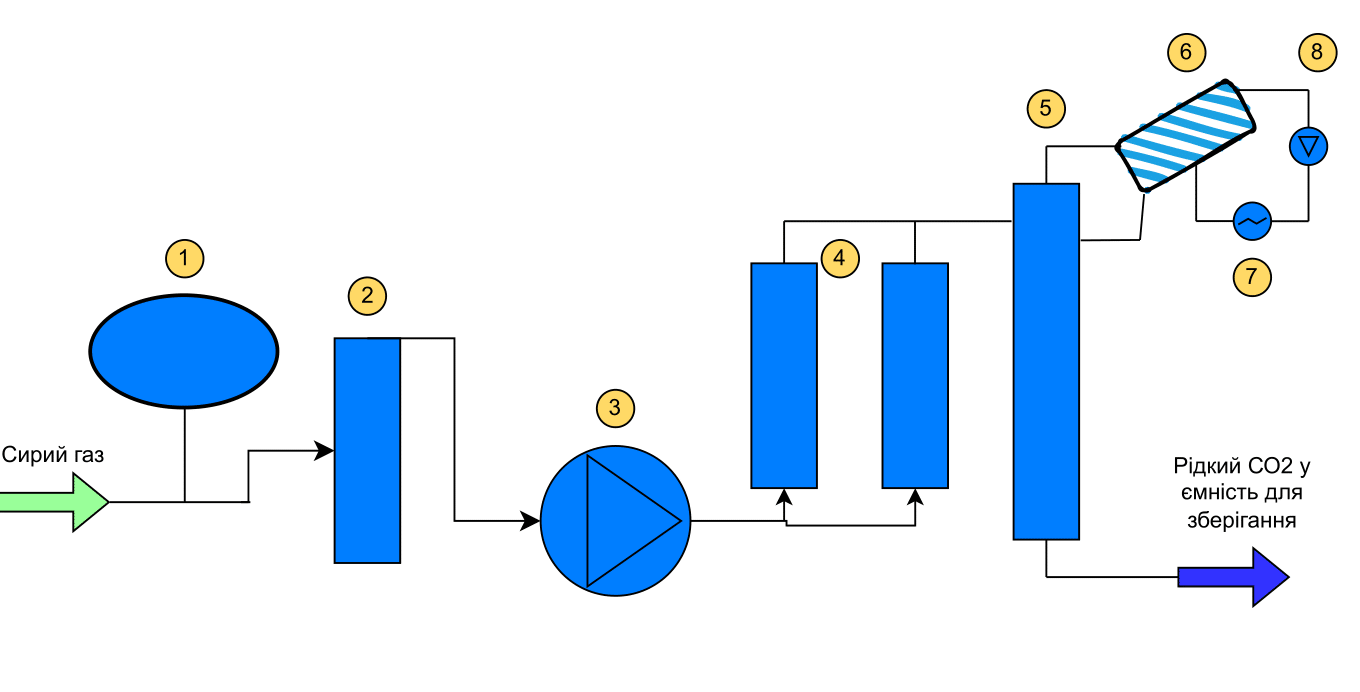
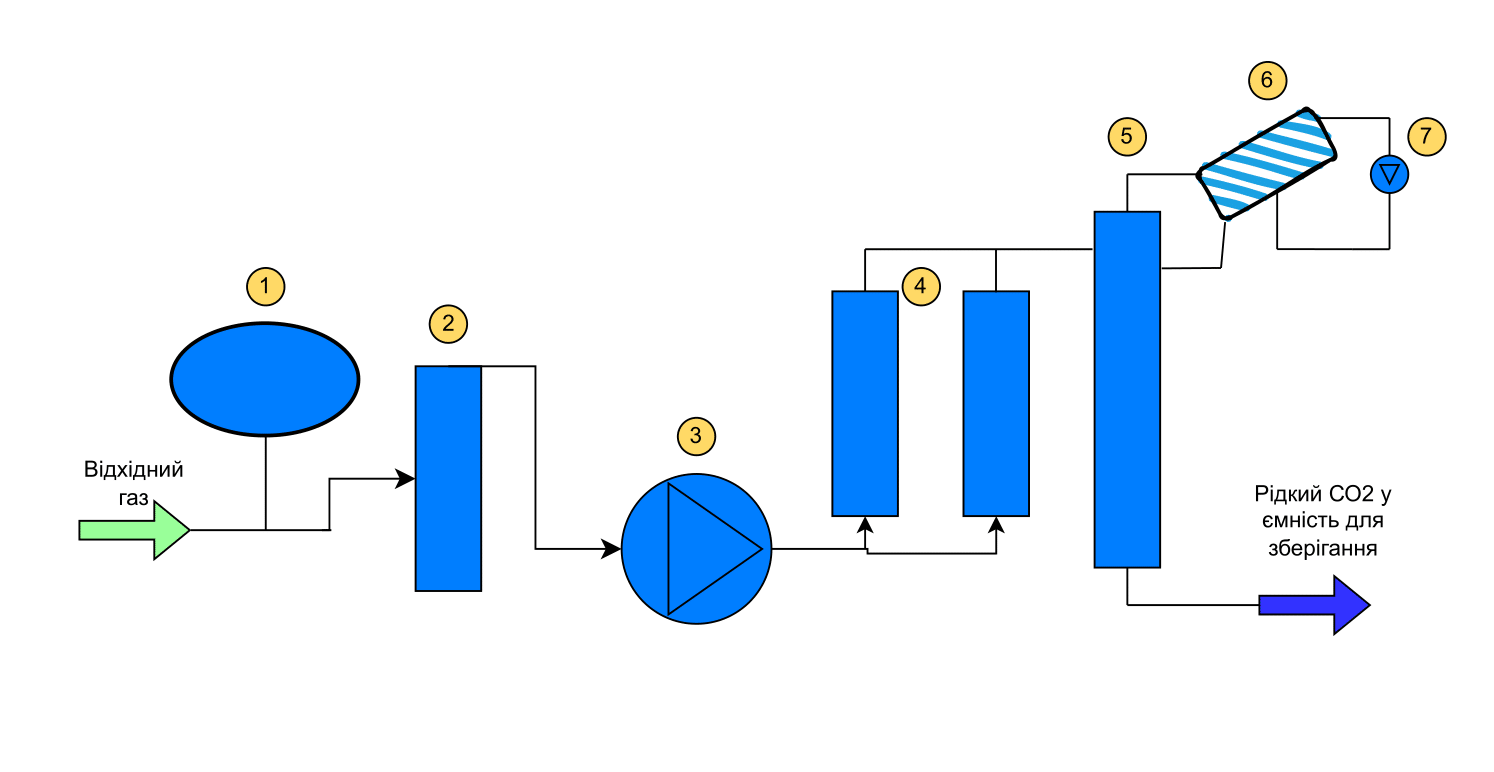
small fix

Changed region(s): [[0.3706, 0.0303, 0.9882, 0.8801], [0.0, 0.3338, 0.3706, 0.8194], [0.9574, 0.0303, 0.9882, 0.1214]]

diff --git a/axolot/src/components/HomePages/AboutUs.tsx b/axolot/src/components/HomePages/AboutUs.tsx
@@ -15,7 +15,7 @@ const AboutUs: React.FC = () => {
               </div>
         <div className="container">
           <div className="row">
-            <div className="col-lg-6">
+            <div className="col-lg-6" >
               <div
                 className="repair-about-content"
                 data-aos="fade-right"
@@ -59,18 +59,18 @@ const AboutUs: React.FC = () => {
               </div>
             </div>
 
-            <div className="col-lg-6">
-              <div className="repair-about-image">
-                <h3 data-aos="fade-left" style={{ color: "#198754" }}>Забезпечте себе CO2</h3>
+            <div data-aos="fade-left" className="col-lg-6" style={{backgroundColor:"rgba(25, 135, 84, 0.1)",padding:16, borderRadius:8}}>
+              <div className="repair-about-image" >
+                <h3 data-aos="fade-left" style={{ color: "#198754", textAlign:"center" }}>Забезпечте себе CO2</h3>
                 <p data-aos="fade-left" data-aos-duration="600">
               Підвищить ефективність вашого виробництва разом із установками рекуперації CO2 від СО2Lab. Ми пропонуємо індивідуальні рішення, які враховують специфічні вимоги вашого підприємства. Наші фахівці готові розробити, виготовити та встановити обладнання, адаптоване до будь-яких умов, навіть якщо доступний простір обмежений.
                 </p>
                 <br />
-                <p data-aos="fade-right" data-aos-duration="600" style={{fontWeight:700,color:"#198754"}}>
+                <p data-aos="fade-right" data-aos-duration="600" style={{fontWeight:700,color:"#198754", textAlign:"center"}}>
              Наші установки дозволяють:
                 </p>
                 <br/>
-                 <ul data-aos="fade-right" data-aos-duration="600" style={{display:"flex",flexDirection:"column", gap:16, alignItems:"flex-start"}}>
+                 <ul data-aos="fade-right" data-aos-duration="600" style={{display:"flex",flexDirection:"column", gap:16, alignItems:"flex-start", margin:0}}>
                   <li style={{fontWeight:700}}>Уловлювати відхідний СО2</li>
                   <li style={{fontWeight:700}}>Очищати, скраплювати та зберігати його</li>
             <li style={{fontWeight:700}}>Відвантажувати зріджений CO2 відповідно до ваших потреб</li>
@@ -79,8 +79,8 @@ const AboutUs: React.FC = () => {
               </div>
             </div>
           </div>
-    
-          <p data-aos="fade-right" data-aos-duration="600">
+    <br/>
+          <p data-aos="fade-right" data-aos-duration="600" style={{color:"black",fontWeight:700}}>
            На виході ви отримуєте рідкий CO2, чистота якого відповідає стандартам ДСТУ 4817:2007 для харчового застосування, а за потреби — європейському стандарту ISBT.
           </p>
            <p data-aos="fade-right" data-aos-duration="600" style={{fontWeight:700,color: "#198754"}}>

diff --git a/axolot/src/components/HomePages/FaqContentStyle2.tsx b/axolot/src/components/HomePages/FaqContentStyle2.tsx
@@ -31,21 +31,18 @@ const FaqContentStyle2: React.FC = () => {
                         <strong>3. Компресор:</strong> підвищує тиск газу до 18 бар, при цьому видаляються конденсати
                       </p>
                       <p>
-                        <strong>4. Фільтр і осушувач з активованим вугіллям:</strong>{" "}
-                        залишкові домішки та вода видаляються в двоступеневому фільтрі з активованим вугіллям i осушувальній установці. Регенерація фільтра автоматично виконується за допомогою нагрівальних елементів i сухого газу CO2
+                        <strong>4. Фільтр i осушувач з активованим вугіллям:</strong>{" "}
+                        залишкові домішки та вода видаляються в двоступеневому фільтрі з активованим вугіллям в осушувальній установці. Регенерація фільтра автоматично виконується за допомогою нагрівальних елементів i сухого газу CO2
                       </p>
                       <p>
-                        <strong>5. Ребойлер:</strong> Лзалишки О2 видаляються в ребойлері
+                        <strong>5. Ребойлер:</strong> залишки О2 видаляються в ребойлері
                       </p>
                       <p>
-                        <strong>6. Конденсатор CО2 з холодоагентом:</strong> зрідження CO2 відбувається в конденсаторі, охолодженому холодоагентом (6). Процес включає конденсатор холодоагенту (7) та компресор холодоагенту (8).
+                        <strong>6. Конденсатор CО2 з холодоагентом:</strong> зрідження CO2 відбувається в конденсаторі, охолодженому холодоагентом. Процес включає конденсатор CO2 (6) та компресор холодоагенту (7)
                       </p>
                       <p>
-                        <strong>7. Конденсатор холодоагенту</strong> 
+                        <strong>7. Компресор холодоагенту</strong> 
                 </p>
-                 <p>
-                        <strong>8. Компресор холодоагенту</strong> 
-                      </p>
               </div>
             </div>
 

diff --git a/axolot/src/components/HomePages/AboutProduct.tsx b/axolot/src/components/HomePages/AboutProduct.tsx
@@ -15,11 +15,15 @@ const AboutProduct: React.FC = () => {
 
           <div className="style-border">
             <div className="row align-items-center">
-              <div className="col-lg-6 col-md-12">
                 <div className="about-content" data-aos="fade-right"
                 data-aos-duration="800">
-                  <h3 >СО2Lab пропонує комплексні рішення для роботи з діоксидом вуглецю:</h3>
-                  <ul className="pull-left" data-aos="fade-up"
+                  <h3 style={{textAlign:"center"}}>Інженерне бюро СО2Lab візьме вашу задачу на EPC контракт:</h3>
+                <ul style={{
+                  display: "flex",
+                  flexDirection: "column",
+                  alignItems: "center",
+                   width:"100%"
+                  }} className="pull-left" data-aos="fade-up"
                 data-aos-duration="800">
                     <li>
                       <i className="icofont-ui-check"></i>Ємності для зберігання СО2
@@ -42,22 +46,6 @@ const AboutProduct: React.FC = () => {
           
                   </ul>
                 </div>
-              </div>
-              <div className="col-lg-6 col-md-12">
-                <div
-                  className="about-img right-img"
-                  data-aos="fade-up"
-                  data-aos-duration="800"
-                >
-                  <Image
-                    src="/images/related.jpg"
-                    alt="Haffmans
-CO2mpactBrew "
-                    width={605}
-                    height={525}
-                  />
-                </div>
-              </div>
             </div>
           </div>
         </div>

diff --git a/axolot/src/components/HomePages/Services.tsx b/axolot/src/components/HomePages/Services.tsx
@@ -98,7 +98,7 @@ const Services: React.FC = () => {
                   height={40}
                 />
                 <h3 style={{color:"#198754"}}>Якість</h3>
-                <p style={{color:"#343536"}}>Рідкий CO2 високої якості ≥ 99,998 % обʼємних часток</p>
+                <p style={{color:"#343536"}}>Рідкий CO2 високої якості ≥ 99,998 %</p>
               </div>
             </SwiperSlide>
           </Swiper>
